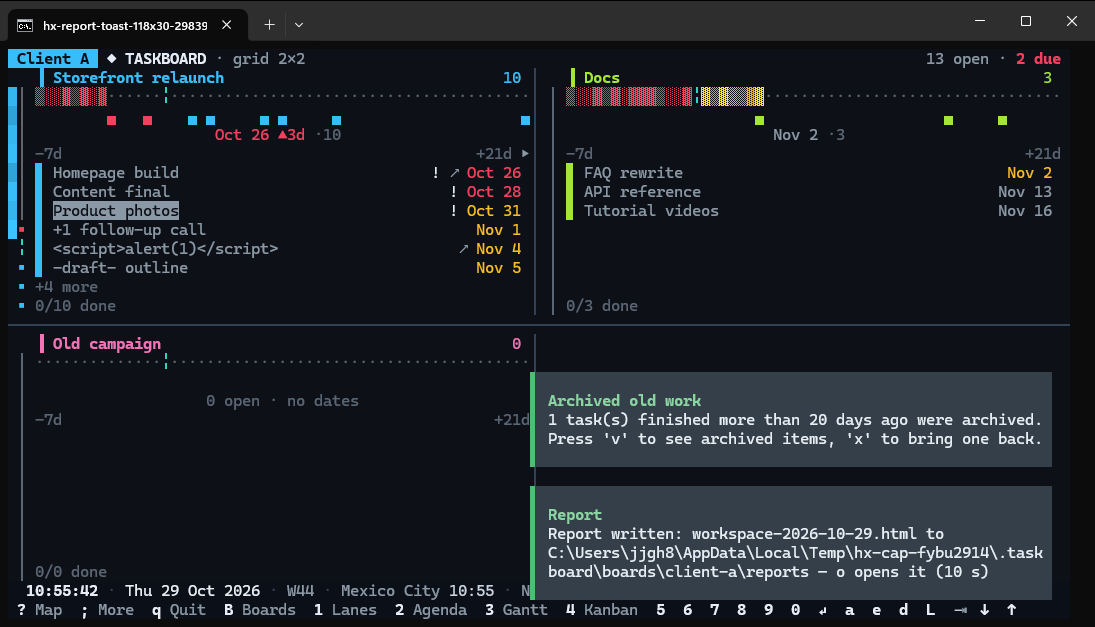
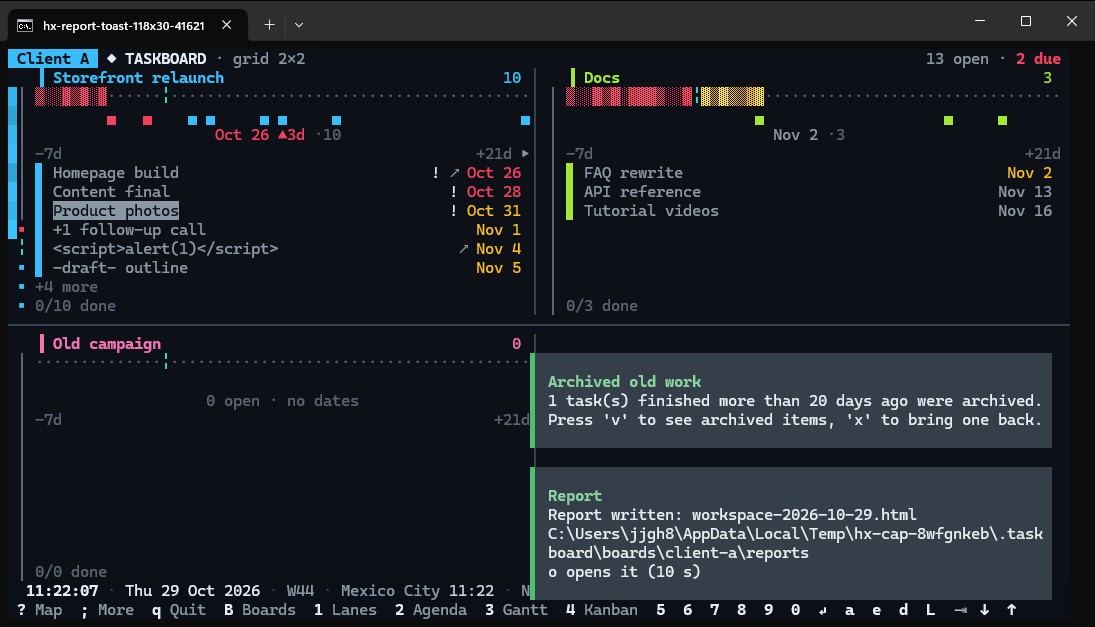
dev-flow(2026-10-29-batch-01): the toast capture re-shot after increment 005

diff --git a/.dev-flow/2026-10-29-batch-01/evidence/captures/terminal/shoot_real.py b/.dev-flow/2026-10-29-batch-01/evidence/captures/terminal/shoot_real.py
@@ -141,13 +141,12 @@ def _check_toast(app: Shot) -> str | None:
     msg = toasts[0].message
     name = f"workspace-{F.TODAY.isoformat()}.html"
     folder = HOME / ".taskboard" / "boards" / "client-a" / "reports"
-    if not msg.startswith(f"Report written: {name} to {folder}") or \
-            not msg.endswith("o opens it (10 s)"):
+    if msg != f"Report written: {name}\n{folder}\no opens it (10 s)":   # increment 005: 3 lines
         return f"toast text {msg!r}"
     if not (folder / name).is_file():
         return f"{name} not written"
     flat = " ".join(_strips(app).split())
-    for w in ("Report written:", "o opens it (10 s)"):
+    for w in (f"Report written: {name}", "o opens it (10 s)"):
         if w not in flat:
             return f"{w!r} not painted"
     return None

diff --git a/.dev-flow/2026-10-29-batch-01/evidence/captures/terminal/README.md b/.dev-flow/2026-10-29-batch-01/evidence/captures/terminal/README.md
@@ -52,9 +52,9 @@ board, Client A) and selects task `tst2` (Storefront relaunch), as TC-3118 does.
 |---|---|---|
 | `report-modal` | `esc`, select `tst2`, `H` | top screen `ReportExport`; `Export an HTML report`, `● all boards (3)`, `○ Storefront relaunch on Client A`, `Personal · Client A · Course`, `Writes to … reports`, the key words |
 | `report-modal-p` | same, then `p` | top screen `ReportExport`; `○ all boards (3)`, `● Storefront relaunch on Client A`, same names / folder / keys |
-| `report-toast` | `esc`, select `tst2`, `H`, `b` | main `Screen`; exactly one `Report` toast whose text is `Report written: workspace-2026-10-29.html to <home>\.taskboard\boards\client-a\reports — o opens it (10 s)`; the file exists; `Report written:` and `o opens it (10 s)` painted. The grab happens about 3 s after `b`, inside the 10 s |
+| `report-toast` | `esc`, select `tst2`, `H`, `b` | main `Screen`; exactly one `Report` toast whose text is exactly the three lines `Report written: workspace-2026-10-29.html` / `<home>\.taskboard\boards\client-a\reports` / `o opens it (10 s)` (increment 005); the file exists; `Report written: workspace-2026-10-29.html` and `o opens it (10 s)` painted. The grab happens about 3 s after `b`, inside the 10 s |
 
-## Results (2026-10-29, HEAD `e8ec477`)
+## Results (2026-10-29, modal shots at HEAD `e8ec477`, toast re-shot at `7b47714`)
 
 All three accepted on try 1 (PrintWindow); READY `OK` each; `no hx-* window left open`
 after both runs; no `hx-cap-*` home, `hx-*.ready` or `hx-*.cmd` left in TEMP.
@@ -63,13 +63,13 @@ after both runs; no `hx-cap-*` home, `hx-*.ready` or `hx-*.cmd` left in TEMP.
 |---|---|---|
 | `png/report-modal_118x30.png` | 14 / 18 | 29,396 |
 | `png/report-modal-p_118x30.png` | 14 / 19 | 29,241 |
-| `png/report-toast_118x30.png` | 36 / 40 | 54,848 |
+| `png/report-toast_118x30.png` (re-shot at `7b47714`) | 37 / 37 | 54,800 |
 
 Seen in the PNGs (eyeballed):
 
 - Key line in both modal shots: `b workspace   c deck   a both   p Storefront relaunch   o all boards   esc close`.
 - `Writes to` shows the head-clipped folder `…Users\<user>\AppData\Local\Temp\hx-cap-*\.taskboard\boards\client-a\reports\`.
-- Toast: `Report` / `Report written: workspace-2026-10-29.html to C:\Users\<user>\AppData\Local\Temp\hx-cap-*\.taskboard\boards\client-a\reports — o opens it (10 s)`, wrapped over three rows. The folder breaks mid-word (`.task` / `board`).
+- Toast (re-shot after increment 005): `Report` / `Report written: workspace-2026-10-29.html` / `C:\Users\<user>\AppData\Local\Temp\hx-cap-*\.taskboard\boards\client-a\reports` (the folder line still wraps mid-word, `.task` / `board`) / `o opens it (10 s)`.
 - Every shot also shows the app's own `Archived old work` toast (Client A's done task
   finished more than 20 days ago is auto-archived on open — fixture data, see the
   `STOREFRONT` note in `tests/test_report_export_app.py`).
